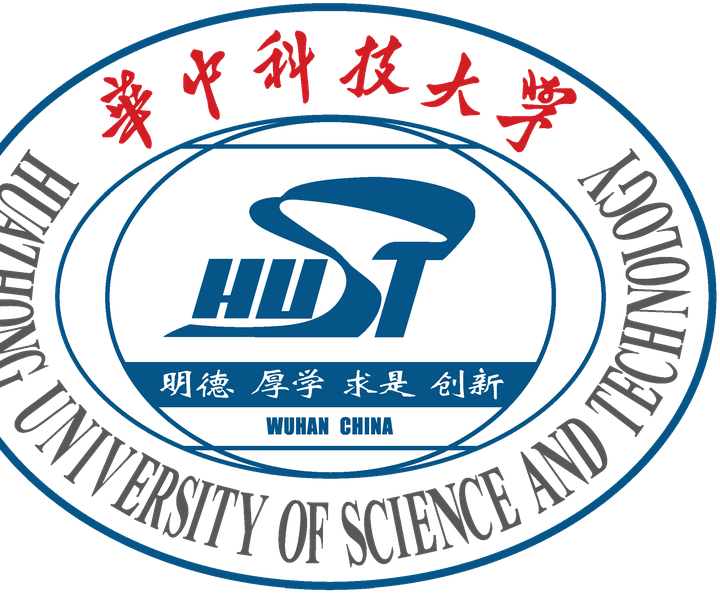
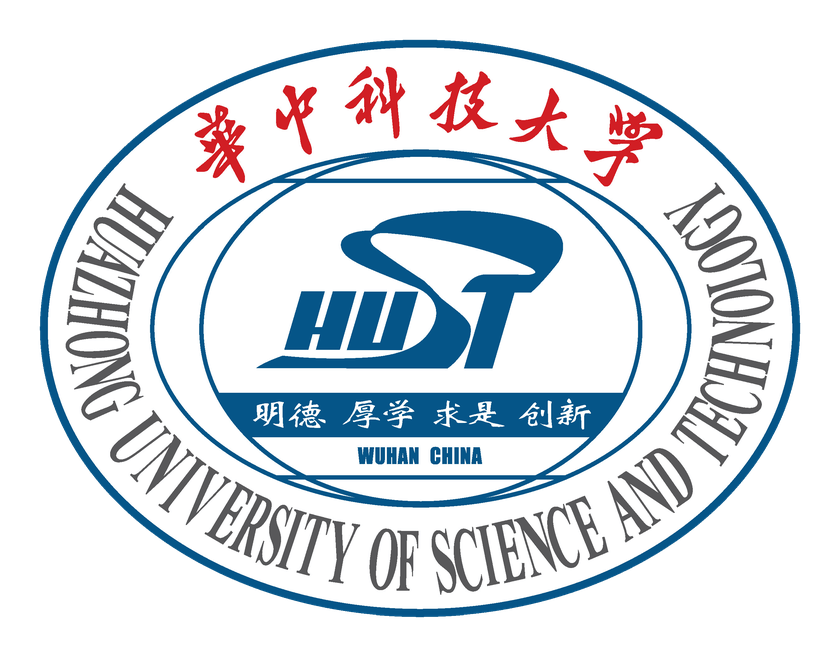
Correct Experience affiliations and show the full HUST seal.
Drop the college line from both entries, name the biomedical engineering department, and recrop the official emblem so the whole oval is visible.

diff --git a/index.html b/index.html
@@ -150,7 +150,7 @@
           <p class="exp-when">2025–present</p>
           <div class="exp-body">
             <h3 class="exp-title">M.S. student in Bioinformatics</h3>
-            <p class="exp-org"><img class="exp-emblem" src="assets/hust-emblem.png" width="720" height="593" alt="Emblem of Huazhong University of Science and Technology"><span>Department of Bioinformatics and Systems Biology<br>College of Life Science and Technology<br>Huazhong University of Science and Technology</span></p>
+            <p class="exp-org"><img class="exp-emblem" src="assets/hust-emblem.png" width="840" height="657" alt="Emblem of Huazhong University of Science and Technology"><span>Department of Bioinformatics and Systems Biology<br>Huazhong University of Science and Technology</span></p>
             <p class="exp-note">Research focus: computational biology at <a href="http://www.microbioinformatics.org/">Ning Lab</a>.</p>
           </div>
         </li>
@@ -158,7 +158,7 @@
           <p class="exp-when">2021–2025</p>
           <div class="exp-body">
             <h3 class="exp-title">B.Eng. in Biomedical Engineering</h3>
-            <p class="exp-org"><img class="exp-emblem" src="assets/hust-emblem.png" width="720" height="593" alt="Emblem of Huazhong University of Science and Technology"><span>College of Life Science and Technology<br>Huazhong University of Science and Technology</span></p>
+            <p class="exp-org"><img class="exp-emblem" src="assets/hust-emblem.png" width="840" height="657" alt="Emblem of Huazhong University of Science and Technology"><span>Department of Biomedical Engineering<br>Huazhong University of Science and Technology</span></p>
             <p class="exp-note">Experimental Class of the Excellent Engineer Program in Biomedical Engineering (Shengzhuo Class).</p>
             <div class="exp-nested">
               <p class="exp-when">2023–2024</p>

diff --git a/css/style.css b/css/style.css
@@ -441,13 +441,17 @@ a:hover {
   display: flex;
   align-items: center;
   gap: 0.7rem;
+  overflow: visible;
   color: var(--muted);
 }
 
 .exp-emblem {
-  width: 2.4rem;
+  display: block;
+  width: 2.85rem;
   height: auto;
   flex: none;
+  object-fit: contain;
+  object-position: center;
 }
 
 .exp-note {
@@ -859,7 +863,7 @@ cite {
   }
 
   .exp-emblem {
-    width: 2.15rem;
+    width: 2.55rem;
   }
 
   .interests li {
